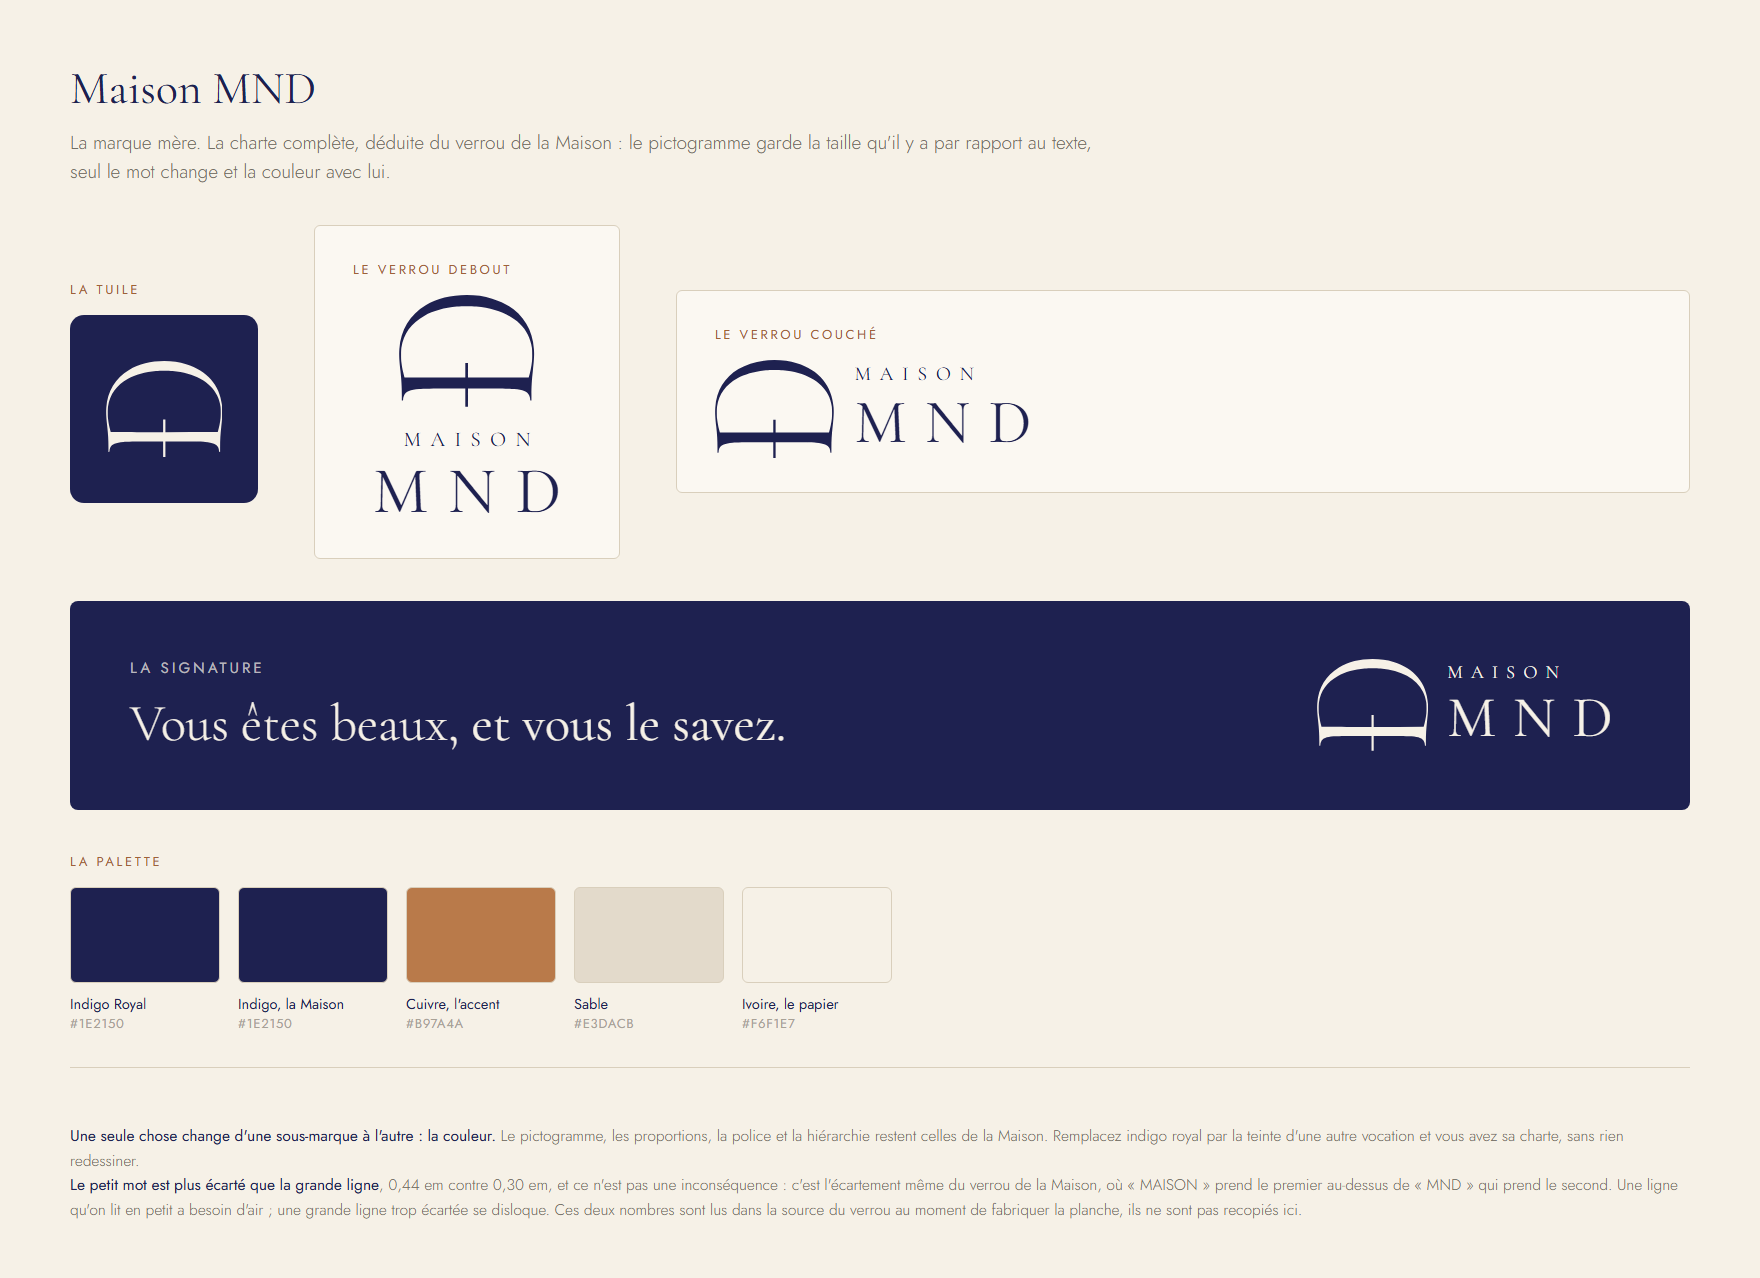
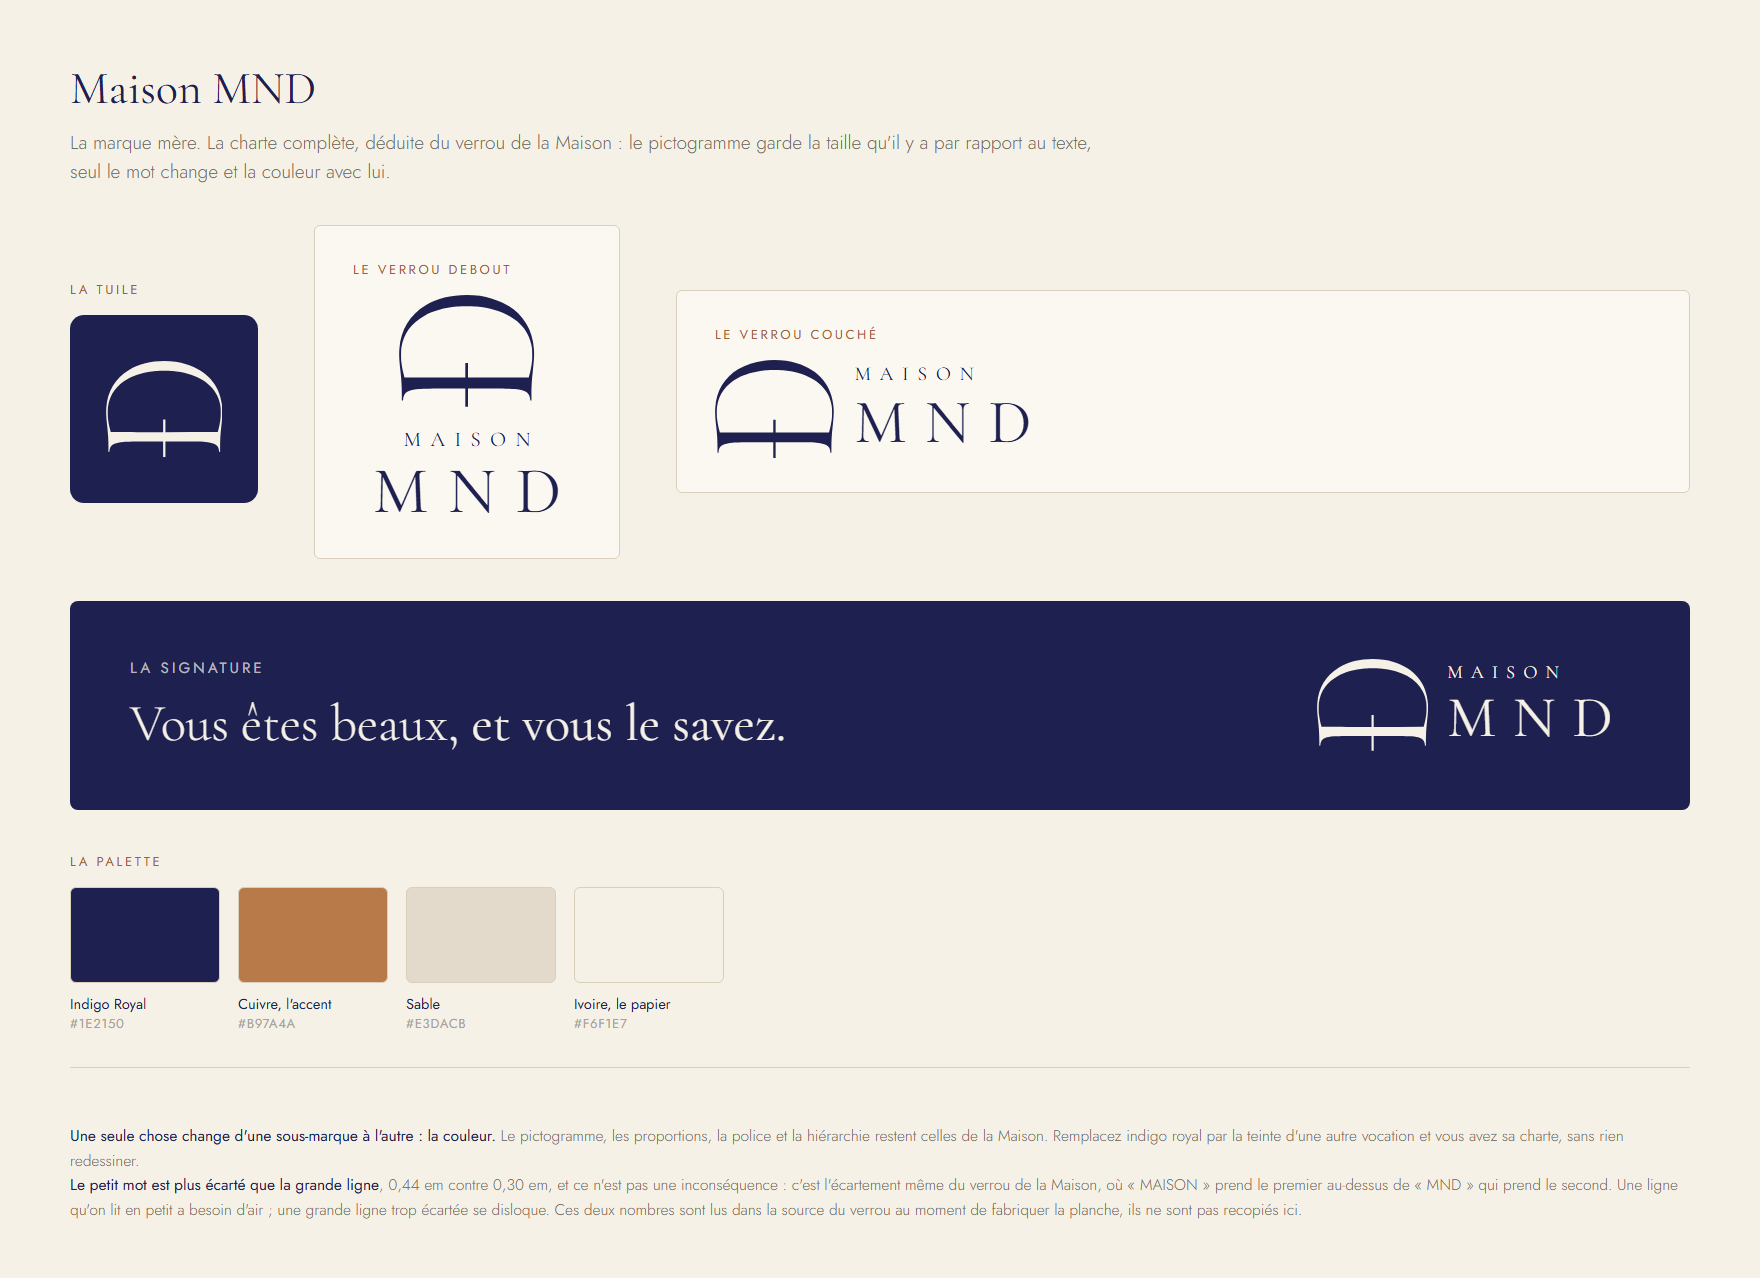
marque : une capture periee ne peut plus etre relue
Chrome qui echoue n'ecrit rien et ne dit rien : `rends` relisait alors
l'image du rendu precedent, a la bonne taille, donc sans qu'aucune
verification ne bronche. Une mesure a rendu 226/255 d'ecart sur un degrade
parfaitement juste, le temps de comprendre qu'elle portait sur l'image
d'avant. La cible est effacee avant chaque lancement, et son absence est
une erreur.

La sonde d'interpolation prenait les deux teintes du degrade de fete, qui
sont presque alignees : entre elles, sRGB et oklab ne different que de 2 sur
255, si bien qu'un changement de methode passait inapercu. Elle prend
desormais l'emeraude et le cuivre, qui traversent la roue, ou la meme
bascule creuse 20 sur 255. Une sonde se choisit pour ce qu'elle sait
detecter.

La palette de la marque mere ne montre plus l'indigo deux fois.

Changed region(s): [[0.125, 0.6714, 0.4688, 0.7934]]

diff --git a/scripts/fabrique-les-sous-marques.py b/scripts/fabrique-les-sous-marques.py
@@ -352,11 +352,19 @@ class Q(socketserver.TCPServer):
 def rends(nom, html, large, haut):
     io.open(os.path.join(TRAVAIL, "_%s.html" % nom), "w", encoding="utf-8").write(html)
     cible = os.path.join(TRAVAIL, "%s.png" % nom)
+    # ON EFFACE LA CAPTURE PRECEDENTE AVANT DE RELANCER. Chrome qui echoue ne
+    # dit rien et n'ecrit rien : on relisait alors l'image du rendu d'avant, a
+    # la bonne taille, donc sans qu'aucune verification ne bronche. Une mesure
+    # a rendu 226/255 d'ecart sur un degrade parfaitement juste, le temps de
+    # comprendre qu'elle portait sur l'image precedente.
+    if os.path.exists(cible):
+        os.remove(cible)
     subprocess.run([NAV, "--headless=new", "--disable-gpu", "--hide-scrollbars",
                     "--user-data-dir=" + os.path.join(TRAVAIL, "profil"),
                     "--window-size=%d,%d" % (large, haut), "--virtual-time-budget=25000",
                     "--screenshot=" + cible, "http://127.0.0.1:%d/_%s.html" % (PORT, nom)],
                    capture_output=True, timeout=300)
+    assert os.path.exists(cible), "%s : Chrome n'a rien rendu" % nom
     im = Image.open(cible)
     assert im.size == (large, haut), "%s : %sx%s au lieu de %sx%s" % (nom, *im.size, large, haut)
     return im
@@ -731,8 +739,15 @@ def eprouve_le_degrade_du_navigateur():
     Un premier controle voulait lire le degrade sur la planche elle-meme. Il
     cherchait le bain par sa couleur de depart et tombait sur LA TUILE, qui est
     du meme aplat : il annoncait un contraste de 0,9, ce qui n'existe pas. On
-    rend donc une bande a soi, pleine largeur, a une place connue."""
-    de, vers = "#004B41", "#18686B"
+    rend donc une bande a soi, pleine largeur, a une place connue.
+
+    LE COUPLE DE LA SONDE N'EST PAS CELUI DES PLANCHES, ET C'EST VOULU. Les
+    deux teintes du degrade de fete sont presque alignees : entre elles, sRGB
+    et oklab ne different que de 2 sur 255, si bien qu'une sonde faite sur ce
+    couple ne verrait RIEN si le navigateur changeait de methode. On prend donc
+    l'emeraude et le cuivre, qui traversent la roue : la meme bascule y creuse
+    20 sur 255. Une sonde se choisit pour ce qu'elle sait detecter."""
+    de, vers = "#004B41", "#B97A4A"
     large = 1000
     page = tete() + """
 <style>body{background:#fff;margin:0}</style>
@@ -841,8 +856,8 @@ def planche_charte(g, large_debout):
   <div class="palette" style="margin-top:0">
     <div class="pastille"><div class="carre" style="background:{C}"></div>
       <div class="n">{g['nomCouleur']}</div><div class="c">{C}</div></div>
-    <div class="pastille"><div class="carre" style="background:{INDIGO}"></div>
-      <div class="n">Indigo, la Maison</div><div class="c">{INDIGO}</div></div>
+    {'' if C == INDIGO else f'''<div class="pastille"><div class="carre" style="background:{INDIGO}"></div>
+      <div class="n">Indigo, la Maison</div><div class="c">{INDIGO}</div></div>'''}
     <div class="pastille"><div class="carre" style="background:#B97A4A"></div>
       <div class="n">Cuivre, l'accent</div><div class="c">#B97A4A</div></div>
     <div class="pastille"><div class="carre" style="background:#E3DACB"></div>
